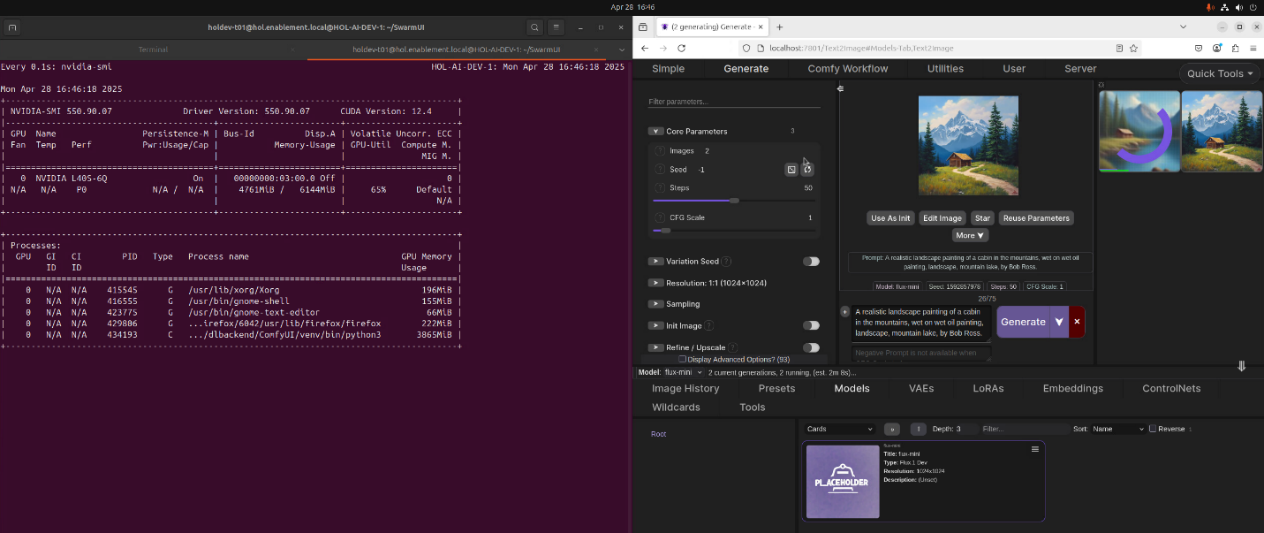
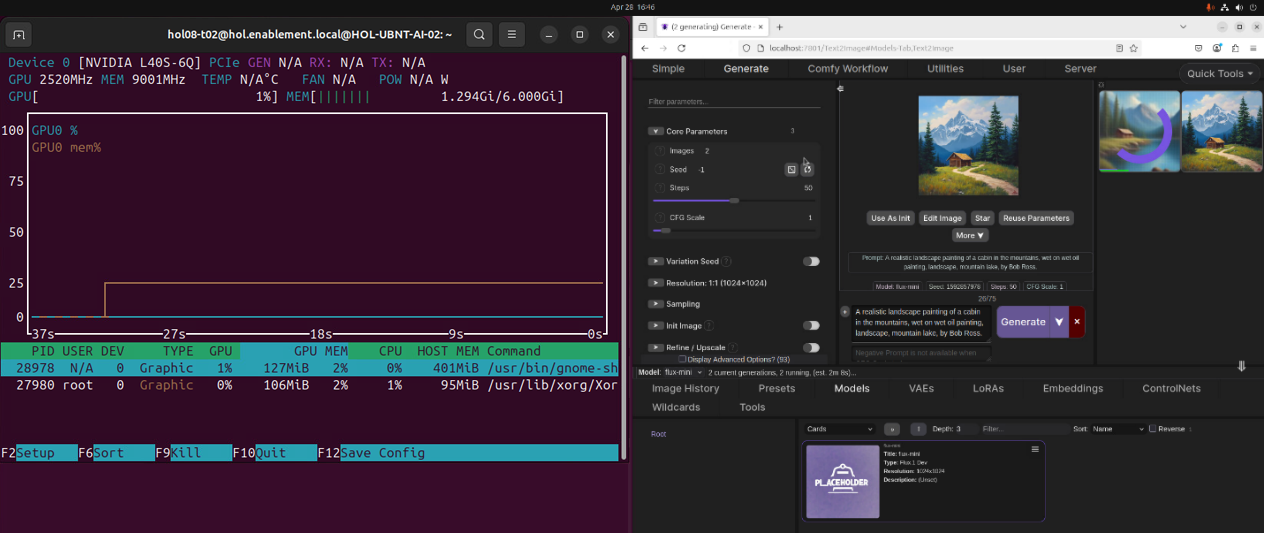
Updating images

Changed region(s): [[0.0, 0.03, 0.5245, 0.7505], [0.0, 0.8105, 0.4937, 0.8705]]

diff --git a/_posts/2026-03-05-AI-Inferencing-on-ProLiant.md b/_posts/2026-03-05-AI-Inferencing-on-ProLiant.md
@@ -218,7 +218,7 @@ We are going to do that pre-work first as it will allow the labs to flow more sm
 
 4. After a few minutes, the lab support files will appear on the desktop. These will be used in a later section of the hands-on-lab experience.
 
-    [![]( {{ site.baseurl }}/assets/images/HOLs/AI-Inferencing/img30.jpg){: .bordered-image-thin}]( {{ site.baseurl }}/assets/images/HOLs/AI-Inferencing/img30.jpg){:class="img-100"}{: data-lightbox="gallery"}
+    [![]( {{ site.baseurl }}/assets/images/HOLs/AI-Inferencing/img30.png){: .bordered-image-thin}]( {{ site.baseurl }}/assets/images/HOLs/AI-Inferencing/img30.png){:class="img-100"}{: data-lightbox="gallery"}
 
 5. In terminal, copy and paste the following command and press Enter.
 
@@ -297,7 +297,7 @@ Your environment has been set up in such a way that your VM has been configured 
 9. To see the impact on GPU utilization while Stable Diffusion generates images, open a new Terminal session. Right-click on the Terminal and select New Window. Enter the following command to monitor GPU activity:
 
     ```bash
-    watch -n0 nvidia-smi
+    nvtop
     ```
 
     [![]( {{ site.baseurl }}/assets/images/HOLs/AI-Inferencing/img40.png){: .bordered-image-thin}]( {{ site.baseurl }}/assets/images/HOLs/AI-Inferencing/img40.png){:class="img-600"}{: data-lightbox="gallery"}
